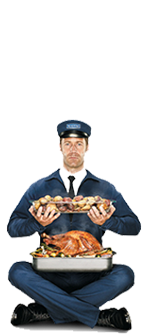
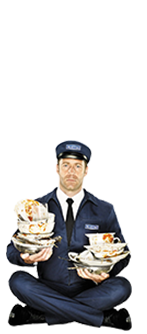
Changed some question copy. Resized range. Added social menu. Fixed dish may tag man image. Fixed some results layout issues. Added indicator to color swatch on results page.

diff --git a/app/views/results.html b/app/views/results.html
@@ -38,9 +38,11 @@
 						<div class="product-colour-picker-wrap">
 							<span bo-text="brandData.apptext.colourPreference"></span>
 							<div class="colourBar">
-								<span ng-repeat="colour in a.colours">
-									<img ng-src="http://www.maytag.com/digitalassets/ColorBars/{{colour.colourCode}}-MT.png" ng-click="expandPriceRange(colour.prices.CAD);a.picker=colour" />
-								</span>
+								<ul class="color-wrapper">
+									<li ng-repeat="colour in a.colours" ng-click="expandPriceRange(colour.prices.CAD);a.picker=colour;selectPicker(a,colour);" ng-class="{selected: a.picker.colourCode==colour.colourCode}">
+										<img ng-src="http://www.maytag.com/digitalassets/ColorBars/{{colour.colourCode}}-MT.png" />
+									</li>
+								</ul>
 							</div>
 						</div>
 						<div class="product-price-sku-wrap">
@@ -57,27 +59,28 @@
 
 						</div>
 						<div class="product-details-wrap">
-							<h2><span ng-if="a.appliance!='Laundry'" class="product-name" ng-bind-html="a.name"></span> </h2>
-							<h2><span ng-if="a.appliance=='Laundry'" class="product-name" ng-bind-html="a.washerName"></span> </h2>
-							<h2><span ng-if="a.appliance=='Laundry'" class="product-name" ng-bind-html="a.dryerName"></span> </h2>
+							<h2 ng-if="a.appliance!='Laundry'"><span class="product-name" ng-bind-html="a.name"></span> </h2>
+							<h2 ng-if="a.appliance=='Laundry'" ><span class="product-name" ng-bind-html="a.washerName"></span> </h2>
+							<h2 ng-if="a.appliance=='Laundry'"><span class="product-name" ng-bind-html="a.dryerName"></span> </h2>
 							
 							<div class="product-details">
 								<div ng-repeat="sf in a.salesFeatures | assignScore:a | orderBy:'-score' | limitTo:3"> 
 									<h4 class="sales-feature">
-										<img ng-if="!!sf.featureKey" ng-src="img/icon-{{sf.featureKey}}.png" />
-										<img ng-if="!sf.featureKey" ng-src="img/icon-genericfeature.png" />
+										<img ng-if="!!sf.featureKey" ng-class="{multiline: sf.headline.length > 46}" ng-src="img/icon-{{sf.featureKey}}.png" />
+										<img ng-if="!sf.featureKey" ng-class="{multiline: sf.headline.length > 46}" ng-src="img/icon-genericfeature.png" />
 										<span ng-bind-html="sf.headline"></span>
 									</h4>
 									<span ng-bind-html="sf.description"></span>
 								</div>
 
-								<div ng-repeat="sf in a.salesFeatures | orderBy:'-score' | after:3 | limitTo:6"> 
-									<h4 class="sales-feature-additional">
-										<img src="img/results-checkmark.png">
-										<span ng-bind-html="sf.headline"></span>
-									</h4>
+								<div class="sales-feature-additional-wrapper">
+									<div ng-repeat="sf in a.salesFeatures | orderBy:'-score' | after:3 | limitTo:6"> 
+										<h4 class="sales-feature-additional">
+											<img src="img/results-checkmark.png">
+											<span ng-bind-html="sf.headline"></span>
+										</h4>
+									</div>
 								</div>
-
 								
 							</div>
 

diff --git a/app/scss/brands/maytag/_results.scss b/app/scss/brands/maytag/_results.scss
@@ -32,17 +32,42 @@
 	li.result {
 		//box-shadow: inset 0px 0px 5px 0px #002e5f;
 		border: 2px solid #002e5f;
+		.product-details {
+			padding-top: 1px;
+		}
 		.colourBar {
 			margin-left: auto; 
 			margin-right: auto;
 			margin-top: 10px;
 		    margin-bottom: 20px;
+		    height: 25px;
+		    display: table;
+		}
+		.colourBar ul {
+			margin: 0 auto;
+			height: inherit;
+			padding: 0;
+		}
+		.colourBar ul li {
+			height: 24px;
+			width: 27px;
+			display: block;
+			float: left;
+			margin-right: 2px;
+			cursor: pointer;
+		}
+		.colourBar li.selected::after {
+			content: url(../img/small-active-indicator.jpg);
+			cursor: initial;
+			top: -5px;
+			position: relative;
 		}
 		.product-name {
 			font-family: $AG-Bold-Cnd;
 			font-size: 16px;
 			color: #022d58; 
 			text-transform: uppercase;
+			letter-spacing: 1px;
 		}
 		.product-price-sku-wrap {
 			font-family: $AG-Bold-Cnd;
@@ -57,6 +82,13 @@
 			.product-sku {
 				padding-left: 10px
 			}
+		}
+		h2 {
+			margin-top: 2px;
+			margin-bottom: 20px;
+			font-size: 17px;
+			padding-top: 10px;
+			min-height: 46px;
 		}
 		&:nth-child(1), &:nth-child(3) {
 			margin-top: 32px;
@@ -77,7 +109,6 @@
 				}
 			}
 			.product-details {
-				padding-top: 16px;
 				padding-bottom: 22px;
 				padding-left: 25px;
 				padding-right: 25px;
@@ -124,13 +155,6 @@
 			}
 		}
 		&:nth-child(2) { // this is for the middle result
-
-			h2 {
-				margin-top: 2px;
-				margin-bottom: 20px;
-				font-size: 17px;
-				padding-top: 10px;
-			}
 			h3 {	
 				text-align: center;
 				background-color: #002e5f;
@@ -213,16 +237,32 @@
 			padding-left: 43px;
 			padding-right: 43px;
 
-			h4.sales-feature, h4.sales-feature-additional {
+			.sales-feature-additional-wrapper {
+				padding-top: 10px;
+			}
+
+			h4.sales-feature {
 				position: relative;
 				overflow: visible; // show all of icon even outside boundaries
 				img:first-child {
 					position: absolute;
 					left: 0px;
-					top: 50%;
+					top: 12%;
 					transform: translateY(-50%);
 					-ms-transform: translateY(-50%);
 					-webkit-transform: translateY(-50%);
+				}
+				img.multiline:first-child {
+					top: 35%;
+				}
+			}
+			h4.sales-feature-additional {
+				position: relative;
+				overflow: visible; // show all of icon even outside boundaries
+				img:first-child {
+					position: absolute;
+					left: 0px;
+					top: 18%;
 				}
 			}
 			h4.sales-feature {
@@ -276,10 +316,9 @@
 	  font-size: 14px;
 		padding-left: 50px;
 		text-transform: uppercase;
-		color: #686868;
 	}
 	h4.sales-feature-additional span[ng-bind-html="sf.headline"] {
-		color: #8e8e8e;
+		color: #CCC;
 		font-family: $AG-stack;
 		font-size: 7pt;
 		vertical-align: middle;
@@ -298,11 +337,5 @@
 		font-family: $AG-Bold-Cnd;
 		text-transform: uppercase;
 		color: #7f7f7f;
-	}
-}
-
-span[ng-repeat="colour in a.colours"] {
-	img {
-		cursor: pointer;
 	}
 }

diff --git a/app/scss/structure/_app-main.scss b/app/scss/structure/_app-main.scss
@@ -14,7 +14,7 @@
 		.buttons-top-right-btns {
 			display: inline-block;
 			float: right;
-			a {
+			.share-wrapper {
 				width: 30px;
 				height: 30px;
 				text-align: center;
@@ -24,16 +24,44 @@
 				-webkit-border-radius: 3px;
 				-moz-border-radius: 3px;
 				border-radius: 3px;
-				span {
+				position: relative;
+
+				> span {
+					z-index: 3;
 					width: 30px;
 					height: 30px;
 					display: inline-block;
 					position: relative;
-					top: 9px;
 				}
-			}	
-			.icon-share {
+			}
+			.share-popout, .share-popout-cover {
+				position: absolute;
+				top: 0;
+				width: 64px;
+				z-index: 1;
+				/*display: none;*/
+
+				span {
+					float: left;
+					width: 30px;
+					height: 30px;
+					display: inline-block;
+					margin-right: 2px;
+				}
+			}
+			.share-popout-cover {
+				background-color: #FFF;
+				z-index: 2;
+				height: 100%;
+			}
+			.icon-share,.icon-share-fb,.icon-share-tw {
 				background: url('../img/icon-share.png') center center no-repeat;
+			}
+			.icon-share-fb {
+				background: url('../img/icon-share-fb.png') center center no-repeat;
+			}
+			.icon-share-tw {
+				background: url('../img/icon-share-tw.png') center center no-repeat;
 			}
 		}
 	}

diff --git a/app/js/share.js b/app/js/share.js
@@ -1,0 +1,23 @@
+'use strict';
+angular.module('App')
+  .controller('ShareCtrl', function ($scope, $rootScope) {		
+  }).directive('share', function() {
+    return {
+      restrict: 'E',
+      
+      link: function(scope, element, attrs) {
+        element.on('mouseover', function(e) {
+          e.preventDefault();
+          console.log('mouseover');
+          var popout = $(element).find('.share-popout');
+          $(popout).stop(true).animate({'left': -$(popout).width()}, 500);
+        });
+
+        element.on('mouseout', function(e) {
+          console.log('mouseout');
+          var popout = $(element).find('.share-popout');
+          $(popout).stop(true).animate({'left': 0}, 500);
+        });
+      }
+    }
+  });

diff --git a/app/views/questions.html b/app/views/questions.html
@@ -4,10 +4,15 @@
 	<div class="content-inner">
 		<div class="buttons-top">
 				<!-- Save, Share, Print -->
-				<div class="buttons-top-right-btns">
-					<a class="btn-share" href="">
+				<div ng-controller="ShareCtrl" class="buttons-top-right-btns">
+					<share class="share-wrapper" href="">
 						<span class="icon-share"></span>
-					</a>
+						<div class="share-popout-cover"></div>
+						<div class="share-popout">
+							<span class="icon-share-fb"></span>
+							<span class="icon-share-tw"></span>
+						</div>
+					</share>
 				</div>
 		</div>
 		<!-- Top of main section -->

diff --git a/app/scss/structure/_results.scss b/app/scss/structure/_results.scss
@@ -32,6 +32,8 @@
 	.results-top-right-btns {
 		display: inline-block;
 		float: right;
+		padding-right: 51px;
+		
 		a {
 			width: 30px;
 			height: 30px;
@@ -106,7 +108,7 @@
 			  	width: 100%;
 				text-align: center;
 				margin-top: 30px;
-				margin-bottom: 30px;
+				margin-bottom: 3px;
 				img {
 					width: 220px;
 					display: block;

diff --git a/app/index.html b/app/index.html
@@ -69,6 +69,7 @@
         <script src="js/rank.js"></script>
         <script src="js/radio.js"></script>
         <script src="js/checkbox.js"></script>
+        <script src="js/share.js"></script>
         <script src="js/slider.js"></script>
         <script src="js/slider-multiple.js"></script>
 

diff --git a/app/scss/brands/maytag/_app-main-mt.scss b/app/scss/brands/maytag/_app-main-mt.scss
@@ -317,7 +317,7 @@
 		border-radius: 0px;
 	}
 	* {
-		font-size: 9pt;
+		font-size: 9px;
 		color: #FFF;
 	}
 }
